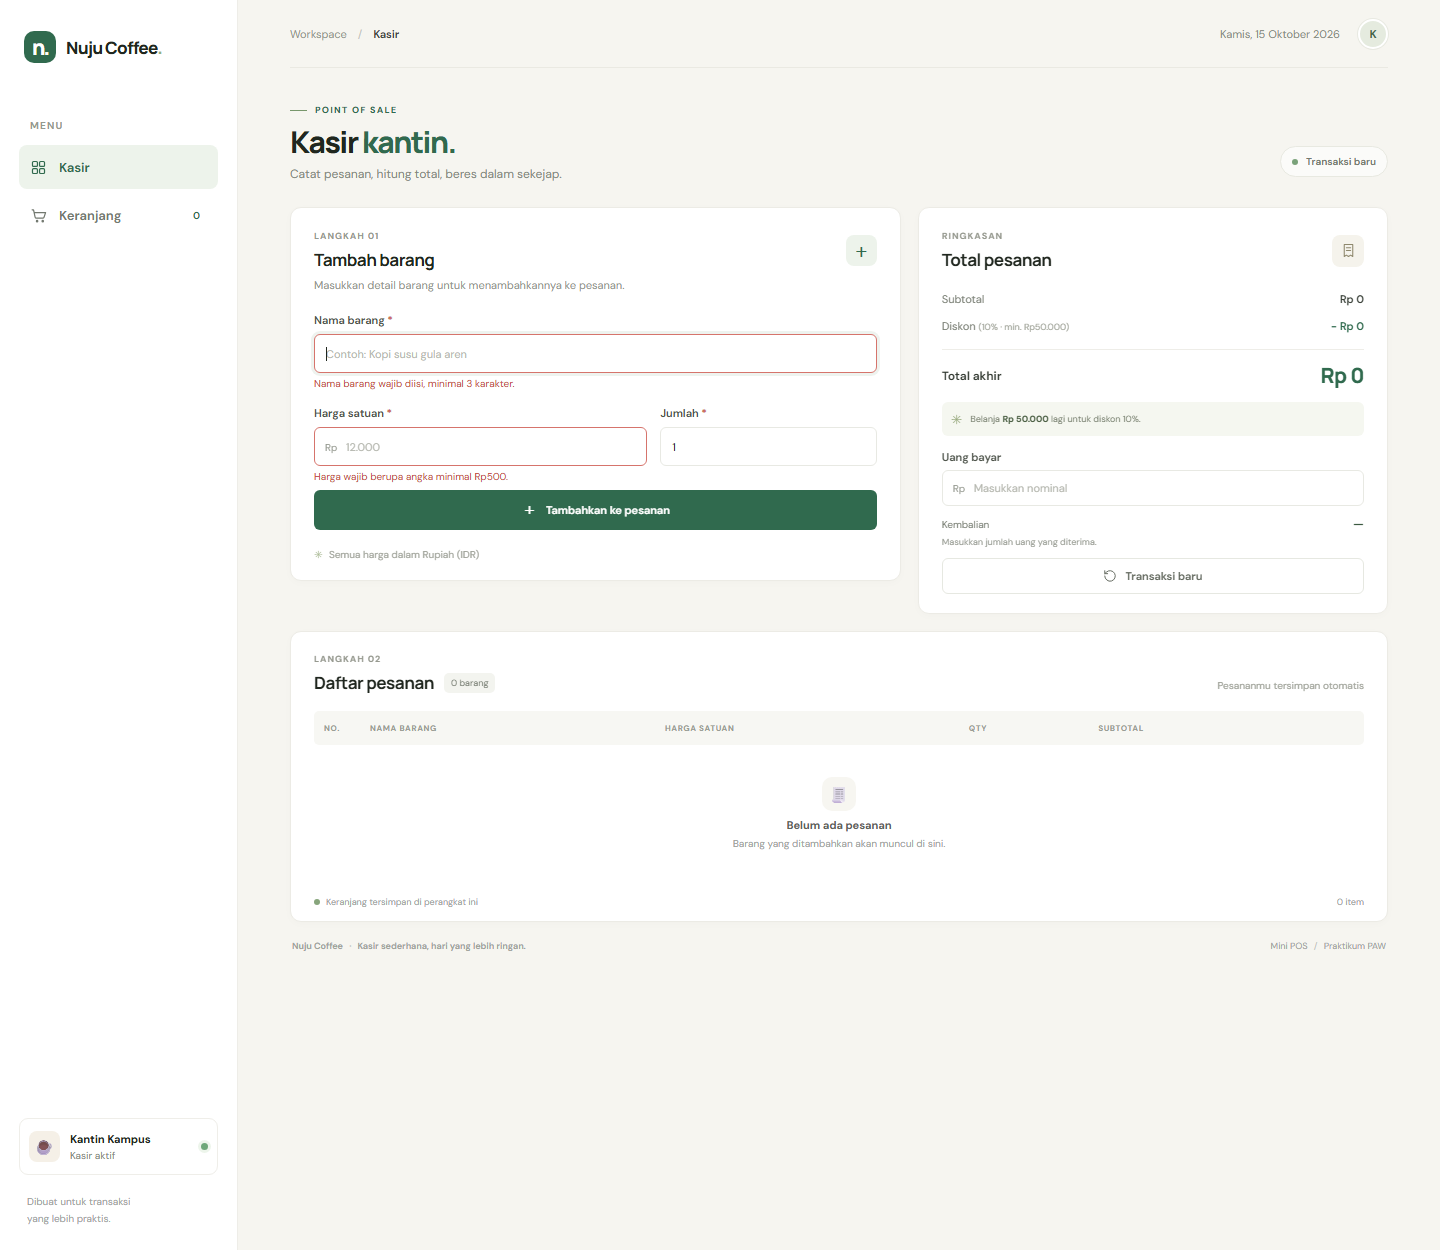
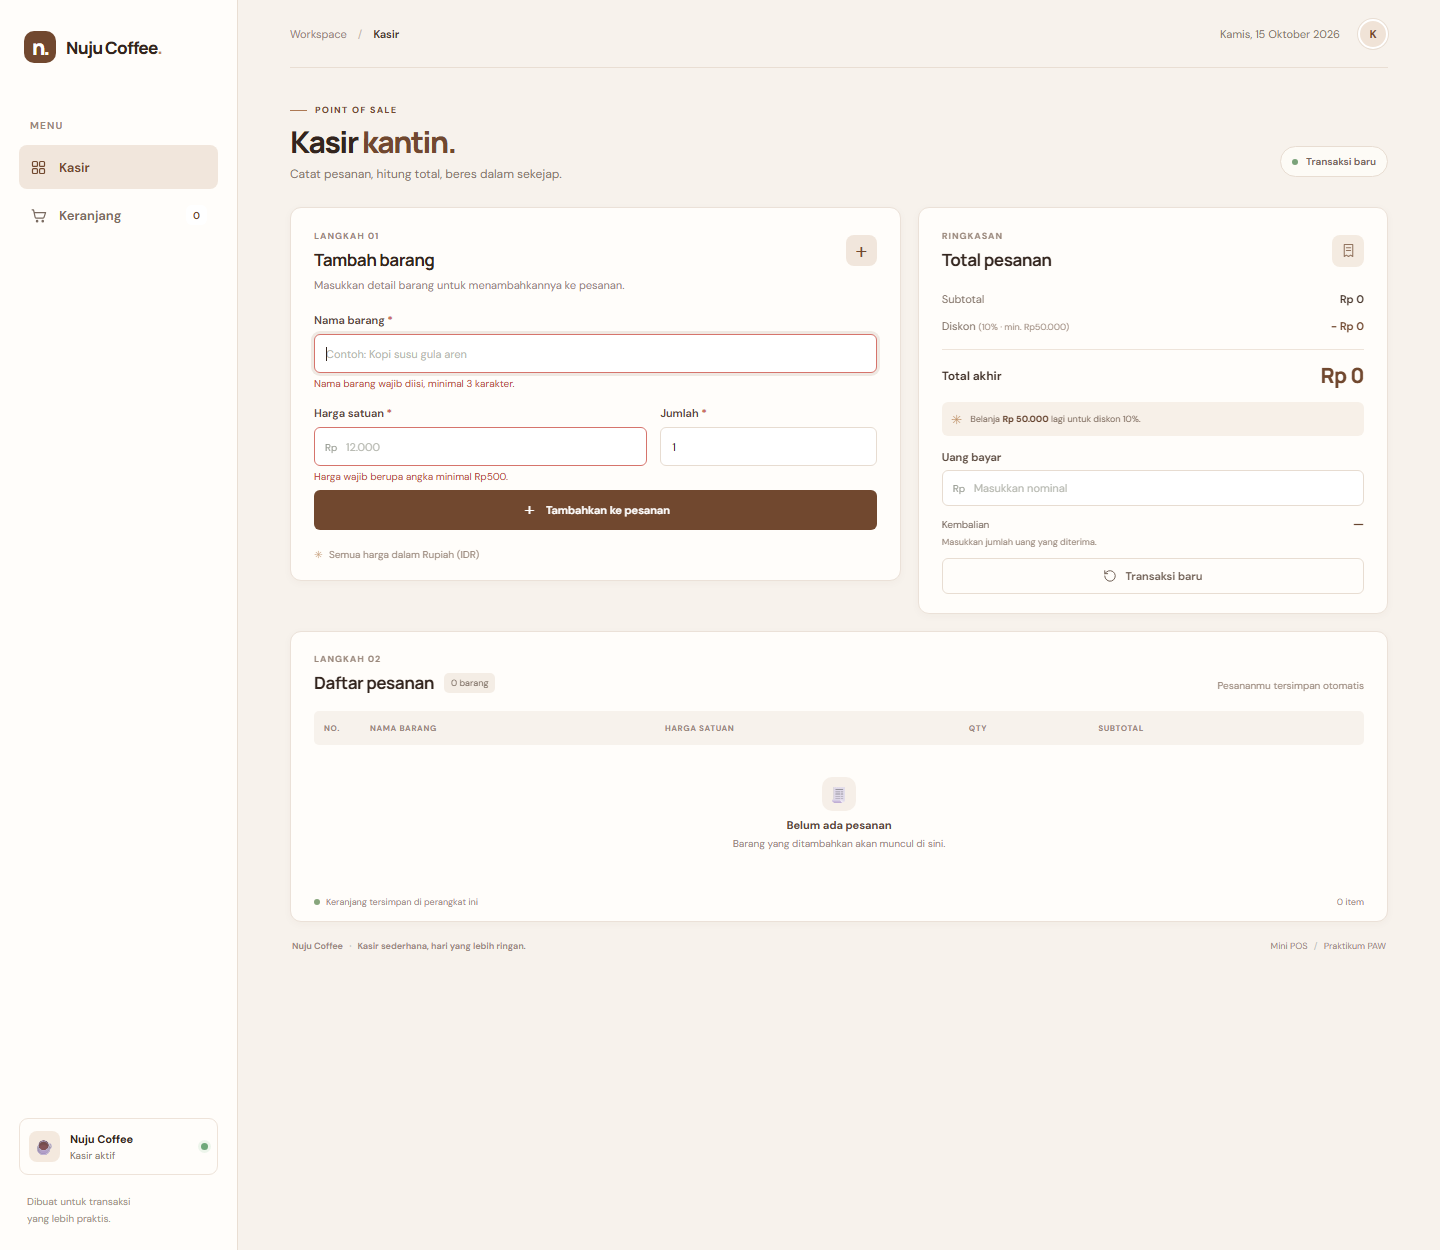
Apply Nuju Coffee brown theme

diff --git a/nathaniahutapea_124140101_pertemuan1/style.css b/nathaniahutapea_124140101_pertemuan1/style.css
@@ -2,15 +2,15 @@
 
 :root {
   color-scheme: light;
-  --ink: #20271f;
-  --muted: #858a80;
-  --green: #306a4e;
-  --green-dark: #24563d;
-  --green-light: #eaf2e9;
-  --paper: #f6f5f0;
-  --line: #eeede7;
+  --ink: #33251e;
+  --muted: #89776c;
+  --green: #71482f;
+  --green-dark: #543321;
+  --green-light: #f1e6dc;
+  --paper: #f7f2ec;
+  --line: #e9ded3;
   --white: #fff;
-  --red: #c54d43;
+  --red: #b94b40;
   font-family: 'DM Sans', sans-serif;
   font-synthesis: none;
   text-rendering: optimizeLegibility;
@@ -23,57 +23,57 @@ body { margin: 0; min-width: 320px; background: var(--paper); color: var(--ink);
 button, input { font: inherit; }
 button { cursor: pointer; }
 .app-shell { min-height: 100vh; }
-.sidebar { position: fixed; inset: 0 auto 0 0; z-index: 2; display: flex; flex-direction: column; width: 238px; padding: 31px 19px 23px; background: #fff; border-right: 1px solid #eeede8; }
+.sidebar { position: fixed; inset: 0 auto 0 0; z-index: 2; display: flex; flex-direction: column; width: 238px; padding: 31px 19px 23px; background: #fffdfa; border-right: 1px solid #e9ded3; }
 .brand { display: flex; align-items: center; gap: 10px; margin: 0 0 56px 5px; color: var(--ink); font: 800 23px/1 'Manrope', sans-serif; letter-spacing: -1.3px; text-decoration: none; }
 .brand-mark { display: grid; width: 32px; height: 32px; place-items: center; border-radius: 10px; background: var(--green); color: #fff; font: 800 21px/1 'Manrope', sans-serif; letter-spacing: -2px; }
 .brand-name { font-size: 17px; letter-spacing: -.7px; white-space: nowrap; }
-.brand-period { color: #91b17d; }
-.sidebar-label, .section-kicker, .eyebrow { color: #96998f; font-size: 10px; font-weight: 700; letter-spacing: 1.15px; }
+.brand-period { color: #c38a55; }
+.sidebar-label, .section-kicker, .eyebrow { color: #9a887c; font-size: 10px; font-weight: 700; letter-spacing: 1.15px; }
 .sidebar-label { padding: 0 11px; margin-bottom: 11px; }
-.nav-link { display: flex; align-items: center; gap: 12px; min-height: 44px; padding: 0 11px; margin: 2px 0; border-radius: 8px; color: #72786f; font-size: 13px; font-weight: 600; text-decoration: none; transition: .18s ease; }
-.nav-link:hover { background: #f7f8f5; color: var(--green); }
-.nav-link-active { background: #edf3eb; color: var(--green); }
+.nav-link { display: flex; align-items: center; gap: 12px; min-height: 44px; padding: 0 11px; margin: 2px 0; border-radius: 8px; color: #796a60; font-size: 13px; font-weight: 600; text-decoration: none; transition: .18s ease; }
+.nav-link:hover { background: #f8f1e9; color: var(--green); }
+.nav-link-active { background: #f1e6dc; color: var(--green); }
 .nav-link svg { width: 17px; height: 17px; fill: none; stroke: currentColor; stroke-width: 1.7; stroke-linecap: round; stroke-linejoin: round; }
 .nav-count { display: grid; min-width: 21px; height: 20px; place-items: center; margin-left: auto; padding: 0 5px; border-radius: 6px; background: #fff; color: var(--green); font-size: 10px; }
 .sidebar-bottom { margin-top: auto; }
-.store-card { display: flex; align-items: center; gap: 10px; padding: 12px 9px; border: 1px solid #efeee9; border-radius: 9px; }
-.store-icon { display: grid; width: 31px; height: 31px; place-items: center; border-radius: 8px; background: #f5f0e7; font-size: 16px; }
+.store-card { display: flex; align-items: center; gap: 10px; padding: 12px 9px; border: 1px solid #eee3d9; border-radius: 9px; }
+.store-icon { display: grid; width: 31px; height: 31px; place-items: center; border-radius: 8px; background: #f4e9de; font-size: 16px; }
 .store-card div { display: grid; gap: 3px; }
 .store-card strong { font-size: 11px; font-weight: 700; }
 .store-card div span { color: var(--muted); font-size: 10px; }
 .online-dot { width: 7px; height: 7px; margin-left: auto; border-radius: 50%; background: #6ea879; box-shadow: 0 0 0 3px #edf5eb; }
-.sidebar-credit { padding: 18px 8px 0; color: #a2a49c; font-size: 10px; line-height: 1.7; }
+.sidebar-credit { padding: 18px 8px 0; color: #a29185; font-size: 10px; line-height: 1.7; }
 .main-content { max-width: 1540px; min-height: 100vh; margin-left: 238px; padding: 0 52px 25px; }
-.topbar { display: flex; height: 68px; align-items: center; justify-content: space-between; border-bottom: 1px solid #eae9e2; }
-.breadcrumb { display: flex; align-items: center; gap: 11px; color: #92958c; font-size: 11px; }
-.breadcrumb strong { color: #3e453d; font-weight: 600; }
-.breadcrumb-slash { color: #c6c7c0; }
+.topbar { display: flex; height: 68px; align-items: center; justify-content: space-between; border-bottom: 1px solid #e9ded3; }
+.breadcrumb { display: flex; align-items: center; gap: 11px; color: #968579; font-size: 11px; }
+.breadcrumb strong { color: #49382e; font-weight: 600; }
+.breadcrumb-slash { color: #c8b9ae; }
 .topbar-right { display: flex; align-items: center; gap: 18px; }
-.today-date { color: #888d83; font-size: 11px; }
-.avatar { display: grid; width: 30px; height: 30px; place-items: center; border: 2px solid #fff; border-radius: 50%; background: #e5ebdf; color: #45684c; font-size: 11px; font-weight: 700; box-shadow: 0 0 0 1px #e8e9e1; }
+.today-date { color: #88776b; font-size: 11px; }
+.avatar { display: grid; width: 30px; height: 30px; place-items: center; border: 2px solid #fff; border-radius: 50%; background: #f0e3d7; color: #75482f; font-size: 11px; font-weight: 700; box-shadow: 0 0 0 1px #e9ded3; }
 .page-heading { display: flex; align-items: flex-end; justify-content: space-between; padding: 36px 0 25px; }
 .eyebrow { display: flex; align-items: center; gap: 8px; margin-bottom: 8px; color: var(--green); font-size: 9px; letter-spacing: 1.3px; }
-.eyebrow-line { width: 17px; height: 1px; background: #78976c; }
+.eyebrow-line { width: 17px; height: 1px; background: #ad7954; }
 h1, h2, p { margin-top: 0; }
 h1 { margin-bottom: 6px; font: 800 30px/1.2 'Manrope', sans-serif; letter-spacing: -1.5px; }
 h1 span { color: var(--green); }
-.page-description { margin-bottom: 0; color: #858a80; font-size: 12px; }
-.transaction-pill { display: flex; align-items: center; gap: 8px; margin-bottom: 5px; padding: 8px 11px; border: 1px solid #e8e9e1; border-radius: 20px; background: rgba(255,255,255,.58); color: #74796f; font-size: 10px; font-weight: 600; }
+.page-description { margin-bottom: 0; color: #89776c; font-size: 12px; }
+.transaction-pill { display: flex; align-items: center; gap: 8px; margin-bottom: 5px; padding: 8px 11px; border: 1px solid #e8ddd2; border-radius: 20px; background: rgba(255,253,250,.72); color: #77675d; font-size: 10px; font-weight: 600; }
 .transaction-pill span { width: 6px; height: 6px; border-radius: 50%; background: #7aa27a; }
 .workspace-grid { display: grid; grid-template-columns: minmax(0, 1.13fr) minmax(325px, .87fr); align-items: start; gap: 17px; }
-.panel { border: 1px solid #ecebe5; border-radius: 11px; background: #fff; box-shadow: 0 2px 8px rgba(29, 38, 26, .018); }
+.panel { border: 1px solid #ebe1d8; border-radius: 11px; background: #fffdfa; box-shadow: 0 2px 8px rgba(75, 48, 31, .035); }
 .product-panel, .summary-panel { min-height: 372px; padding: 22px 23px 19px; }
 .panel-heading { display: flex; align-items: center; justify-content: space-between; }
 .section-kicker { margin-bottom: 7px; font-size: 9px; letter-spacing: 1px; }
 h2 { margin-bottom: 0; font: 700 17px/1.3 'Manrope', sans-serif; letter-spacing: -.45px; }
-.heading-icon { display: grid; width: 31px; height: 31px; place-items: center; border-radius: 8px; background: #edf3eb; color: var(--green); font-size: 20px; font-weight: 400; }
-.panel-description { margin: 7px 0 21px; color: #91948c; font-size: 11px; }
+.heading-icon { display: grid; width: 31px; height: 31px; place-items: center; border-radius: 8px; background: #f1e6dc; color: var(--green); font-size: 20px; font-weight: 400; }
+.panel-description { margin: 7px 0 21px; color: #95847a; font-size: 11px; }
 .field-group { min-width: 0; }
-.field-group label { display: block; margin-bottom: 7px; color: #4f554c; font-size: 11px; font-weight: 600; }
+.field-group label { display: block; margin-bottom: 7px; color: #5a493e; font-size: 11px; font-weight: 600; }
 .required-mark { color: #c75a4d; }
-.field-group input { width: 100%; height: 39px; padding: 0 11px; border: 1px solid #e8e9e3; border-radius: 6px; outline: none; background: #fff; color: var(--ink); font-size: 11px; transition: border-color .18s, box-shadow .18s; }
+.field-group input { width: 100%; height: 39px; padding: 0 11px; border: 1px solid #e7dcd1; border-radius: 6px; outline: none; background: #fff; color: var(--ink); font-size: 11px; transition: border-color .18s, box-shadow .18s; }
 .field-group input::placeholder { color: #b6b8b0; }
-.field-group input:focus { border-color: #81a28a; box-shadow: 0 0 0 3px rgba(67, 117, 80, .09); }
+.field-group input:focus { border-color: #a77756; box-shadow: 0 0 0 3px rgba(113, 72, 47, .11); }
 .field-group input[aria-invalid="true"] { border-color: #d6746c; }
 .field-row { display: grid; grid-template-columns: 1fr .65fr; gap: 13px; margin-top: 15px; }
 .input-prefix { position: relative; }
@@ -81,71 +81,71 @@ h2 { margin-bottom: 0; font: 700 17px/1.3 'Manrope', sans-serif; letter-spacing:
 .input-prefix input { padding-left: 31px; }
 .field-error { min-height: 14px; margin: 4px 0 0; color: var(--red); font-size: 10px; line-height: 1.4; }
 .button { display: inline-flex; align-items: center; justify-content: center; gap: 8px; border: 0; border-radius: 6px; font-size: 11px; font-weight: 600; transition: background .18s, transform .18s, box-shadow .18s; }
-.button:focus-visible, .remove-button:focus-visible { outline: 3px solid rgba(48, 106, 78, .23); outline-offset: 2px; }
+.button:focus-visible, .remove-button:focus-visible { outline: 3px solid rgba(113, 72, 47, .24); outline-offset: 2px; }
 .button:active { transform: translateY(1px); }
 .button-primary { background: var(--green); color: #fff; }
-.button-primary:hover { background: var(--green-dark); box-shadow: 0 3px 10px rgba(48, 106, 78, .16); }
+.button-primary:hover { background: var(--green-dark); box-shadow: 0 3px 10px rgba(84, 51, 33, .18); }
 .add-button { width: 100%; height: 40px; margin-top: 6px; }
 .button-plus { font-size: 17px; font-weight: 400; line-height: 1; }
-.form-note { display: flex; align-items: center; gap: 6px; margin-top: 17px; color: #a0a39a; font-size: 10px; }
-.form-note span { color: #9bae83; }
-.receipt-icon { display: grid; width: 32px; height: 32px; place-items: center; border-radius: 8px; background: #f5f3ec; }
-.receipt-icon svg { width: 17px; height: 17px; fill: none; stroke: #8e886d; stroke-width: 1.5; stroke-linecap: round; stroke-linejoin: round; }
+.form-note { display: flex; align-items: center; gap: 6px; margin-top: 17px; color: #9b897d; font-size: 10px; }
+.form-note span { color: #ba8a60; }
+.receipt-icon { display: grid; width: 32px; height: 32px; place-items: center; border-radius: 8px; background: #f4ebe1; }
+.receipt-icon svg { width: 17px; height: 17px; fill: none; stroke: #92745f; stroke-width: 1.5; stroke-linecap: round; stroke-linejoin: round; }
 .summary-rows { margin-top: 21px; }
-.summary-row { display: flex; justify-content: space-between; margin: 0 0 13px; color: #7d8278; font-size: 11px; }
-.summary-row strong { color: #3c433b; font-size: 11px; font-weight: 600; }
+.summary-row { display: flex; justify-content: space-between; margin: 0 0 13px; color: #817267; font-size: 11px; }
+.summary-row strong { color: #49382e; font-size: 11px; font-weight: 600; }
 .discount-row strong { color: var(--green); }
-.discount-hint { color: #a3a69c; font-size: 9px; }
-.summary-divider { height: 1px; margin: 16px 0 13px; background: #eeede8; }
+.discount-hint { color: #a08e82; font-size: 9px; }
+.summary-divider { height: 1px; margin: 16px 0 13px; background: #eee4da; }
 .grand-total { display: flex; align-items: center; justify-content: space-between; }
-.grand-total > span { color: #343b33; font-size: 12px; font-weight: 600; }
+.grand-total > span { color: #3e2e25; font-size: 12px; font-weight: 600; }
 .grand-total strong { color: var(--green); font: 800 21px/1.2 'Manrope', sans-serif; letter-spacing: -.5px; }
-.discount-status { display: flex; align-items: center; gap: 8px; min-height: 34px; margin-top: 14px; padding: 7px 9px; border-radius: 6px; background: #f5f7f0; color: #767e6d; font-size: 9px; }
-.discount-status strong { color: #4d6146; font-weight: 700; }
-.status-sparkle { color: #93a578; font-size: 13px; }
-.discount-status.discount-active { background: #edf5eb; color: #4a6849; }
+.discount-status { display: flex; align-items: center; gap: 8px; min-height: 34px; margin-top: 14px; padding: 7px 9px; border-radius: 6px; background: #f7f0e8; color: #7c695c; font-size: 9px; }
+.discount-status strong { color: #65432f; font-weight: 700; }
+.status-sparkle { color: #bb8b60; font-size: 13px; }
+.discount-status.discount-active { background: #f2e8dc; color: #63432f; }
 .payment-field { margin-top: 14px; }
 .payment-field label { margin-bottom: 6px; }
 .payment-input input { height: 36px; }
-.change-row { display: flex; align-items: center; justify-content: space-between; margin-top: 10px; color: #777d72; font-size: 10px; }
-.change-row strong { color: #3b5940; font-size: 12px; }
+.change-row { display: flex; align-items: center; justify-content: space-between; margin-top: 10px; color: #78695f; font-size: 10px; }
+.change-row strong { color: #68452f; font-size: 12px; }
 .change-row.insufficient strong { color: var(--red); }
-.payment-message { min-height: 13px; margin: 4px 0 9px; color: #969a91; font-size: 9px; }
+.payment-message { min-height: 13px; margin: 4px 0 9px; color: #98877b; font-size: 9px; }
 .payment-message.error { color: var(--red); }
 .payment-message.success { color: var(--green); }
-.button-secondary { border: 1px solid #e6e8e1; background: #fff; color: #656b61; }
-.button-secondary:hover { border-color: #cbd9cb; background: #f8faf7; color: var(--green); }
+.button-secondary { border: 1px solid #e8ddd2; background: #fffdfa; color: #6f5f54; }
+.button-secondary:hover { border-color: #d7c2ae; background: #faf5ef; color: var(--green); }
 .new-transaction { width: 100%; height: 36px; }
 .new-transaction svg { width: 14px; height: 14px; fill: none; stroke: currentColor; stroke-width: 1.7; stroke-linecap: round; stroke-linejoin: round; }
 .cart-panel { margin-top: 17px; padding: 21px 23px 0; }
 .cart-heading { display: flex; align-items: flex-end; justify-content: space-between; padding-bottom: 17px; }
 .cart-title-line { display: flex; align-items: center; gap: 10px; }
-.item-count { padding: 4px 7px; border-radius: 5px; background: #f3f4ef; color: #73796e; font-size: 9px; }
-.cart-caption { padding-bottom: 2px; color: #a0a39a; font-size: 10px; }
+.item-count { padding: 4px 7px; border-radius: 5px; background: #f4ede5; color: #78695e; font-size: 9px; }
+.cart-caption { padding-bottom: 2px; color: #9b897d; font-size: 10px; }
 .table-wrap { overflow-x: auto; }
 table { width: 100%; border-collapse: collapse; text-align: left; white-space: nowrap; }
-thead { background: #f7f7f3; }
-th { height: 34px; padding: 0 10px; color: #999c93; font-size: 8px; font-weight: 700; letter-spacing: .65px; }
+thead { background: #f7f2ec; }
+th { height: 34px; padding: 0 10px; color: #9a887c; font-size: 8px; font-weight: 700; letter-spacing: .65px; }
 th:first-child { width: 46px; border-radius: 5px 0 0 5px; }
 th:last-child { width: 53px; border-radius: 0 5px 5px 0; }
-td { height: 49px; padding: 0 10px; border-bottom: 1px solid #f0efea; color: #73796f; font-size: 10px; }
-td:first-child { color: #a0a39a; }
-td.product-cell { max-width: 190px; overflow: hidden; color: #3c443b; font-weight: 600; text-overflow: ellipsis; }
-td.subtotal-cell { color: #384c38; font-weight: 700; }
+td { height: 49px; padding: 0 10px; border-bottom: 1px solid #f0e8e0; color: #77695f; font-size: 10px; }
+td:first-child { color: #9b897d; }
+td.product-cell { max-width: 190px; overflow: hidden; color: #49382e; font-weight: 600; text-overflow: ellipsis; }
+td.subtotal-cell { color: #65432f; font-weight: 700; }
 .remove-button { display: grid; width: 27px; height: 27px; place-items: center; border: 1px solid #f0e9e6; border-radius: 5px; background: #fff; color: #b36e65; transition: .15s ease; }
 .remove-button:hover { border-color: #e9c8c2; background: #fff5f3; color: #a84137; }
 .remove-button svg { width: 13px; height: 13px; fill: none; stroke: currentColor; stroke-width: 1.6; stroke-linecap: round; stroke-linejoin: round; }
-.empty-state { display: flex; min-height: 137px; flex-direction: column; align-items: center; justify-content: center; gap: 5px; color: #a1a49b; font-size: 10px; }
-.empty-illustration { display: grid; width: 34px; height: 34px; place-items: center; margin-bottom: 2px; border-radius: 10px; background: #f7f6f1; font-size: 16px; }
-.empty-state strong { color: #5c6259; font-size: 11px; }
+.empty-state { display: flex; min-height: 137px; flex-direction: column; align-items: center; justify-content: center; gap: 5px; color: #9a897e; font-size: 10px; }
+.empty-illustration { display: grid; width: 34px; height: 34px; place-items: center; margin-bottom: 2px; border-radius: 10px; background: #f6efe8; font-size: 16px; }
+.empty-state strong { color: #5a473a; font-size: 11px; }
 .empty-state[hidden] { display: none; }
-.cart-footer { display: flex; align-items: center; justify-content: space-between; min-height: 39px; color: #a0a39a; font-size: 9px; }
+.cart-footer { display: flex; align-items: center; justify-content: space-between; min-height: 39px; color: #9b897d; font-size: 9px; }
 .cart-footer > span:first-child { display: flex; align-items: center; gap: 6px; }
 .save-indicator { width: 6px; height: 6px; border-radius: 50%; background: #87a57c; }
-.page-footer { display: flex; align-items: center; justify-content: space-between; padding: 18px 2px 0; color: #a0a39a; font-size: 9px; }
+.page-footer { display: flex; align-items: center; justify-content: space-between; padding: 18px 2px 0; color: #9b897d; font-size: 9px; }
 .page-footer > span:first-child { font-weight: 600; }
 .footer-separator { padding: 0 4px; color: #c4c6be; }
-.toast { position: fixed; right: 24px; bottom: 22px; z-index: 5; padding: 11px 15px; border: 1px solid #deeadb; border-radius: 8px; background: #fff; color: #3f6645; box-shadow: 0 6px 25px rgba(30, 42, 30, .1); font-size: 11px; opacity: 0; pointer-events: none; transform: translateY(8px); transition: .2s ease; }
+.toast { position: fixed; right: 24px; bottom: 22px; z-index: 5; padding: 11px 15px; border: 1px solid #e7d8c8; border-radius: 8px; background: #fffdfa; color: #65432f; box-shadow: 0 6px 25px rgba(75, 48, 31, .12); font-size: 11px; opacity: 0; pointer-events: none; transform: translateY(8px); transition: .2s ease; }
 .toast.show { opacity: 1; transform: translateY(0); }
 .visually-hidden { position: absolute; width: 1px; height: 1px; overflow: hidden; clip: rect(0, 0, 0, 0); white-space: nowrap; clip-path: inset(50%); }
 
@@ -157,7 +157,7 @@ td.subtotal-cell { color: #384c38; font-weight: 700; }
   .product-panel, .summary-panel { padding-right: 17px; padding-left: 17px; }
 }
 @media (max-width: 820px) {
-  .sidebar { position: static; width: auto; height: 58px; flex-direction: row; align-items: center; justify-content: space-between; padding: 0 20px; border-right: 0; border-bottom: 1px solid #eeede8; }
+  .sidebar { position: static; width: auto; height: 58px; flex-direction: row; align-items: center; justify-content: space-between; padding: 0 20px; border-right: 0; border-bottom: 1px solid #e9ded3; }
   .brand { margin: 0; font-size: 20px; }
   .brand-mark { width: 29px; height: 29px; }
   .sidebar-label, .sidebar-bottom { display: none; }

diff --git a/nathaniahutapea_124140101_pertemuan1/index.html b/nathaniahutapea_124140101_pertemuan1/index.html
@@ -41,7 +41,7 @@
           <div class="store-card">
             <span class="store-icon" aria-hidden="true">☕</span>
             <div>
-              <strong>Kantin Kampus</strong>
+              <strong>Nuju Coffee</strong>
               <span>Kasir aktif</span>
             </div>
             <span class="online-dot" aria-label="Online"></span>
